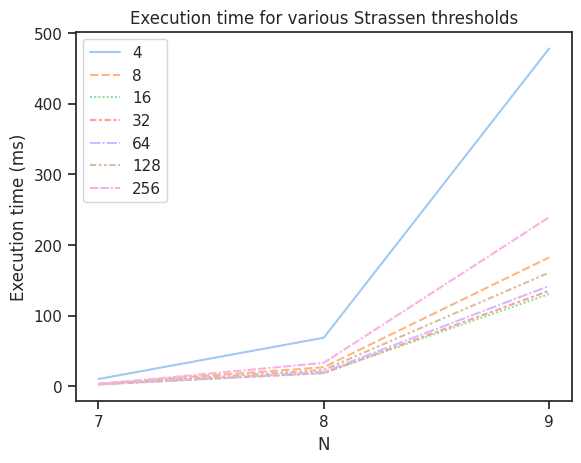
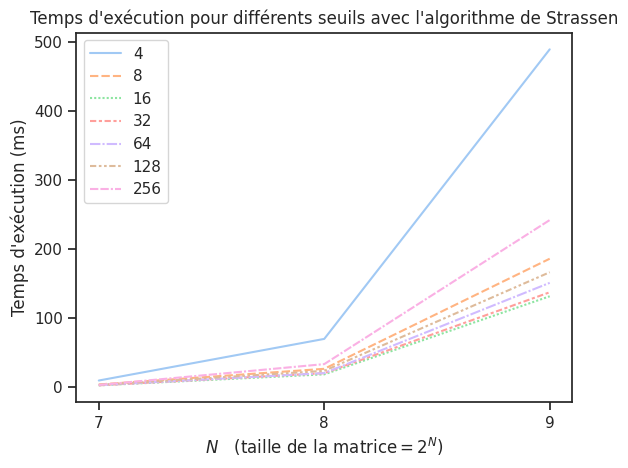
Rename plots to have labels in French

diff --git a/TP1/analyze.py b/TP1/analyze.py
@@ -51,7 +51,7 @@ def main():
 
         plt.figure()
         ax = sns.lineplot(data=df[-3:]) # Only show results for the three biggest matrices
-        ax.set(title='Execution time for various Strassen thresholds', xlabel='N', ylabel='Execution time (ms)')
+        ax.set(title='Temps d\'exécution pour différents seuils avec l\'algorithme de Strassen', xlabel=r'$N\quad(\mathrm{taille\ de\ la\ matrice} = 2^N$)', ylabel='Temps d\'exécution (ms)')
         ax.get_xaxis().set_major_locator(plt.MaxNLocator(integer=True))
         plt.savefig(ANALYSIS_OUTPUT_PATH / 'strassen_thresholds.png', bbox_inches='tight')
 
@@ -65,17 +65,17 @@ def main():
 
         with open(ANALYSIS_OUTPUT_PATH / 'execution_times.md', 'w') as file:
             file.write(df.to_markdown() + '\n')
-        
+
         df.to_csv(ANALYSIS_OUTPUT_PATH / 'execution_times.csv')
 
         plt.figure()
         ax = sns.lineplot(data=df)
-        ax.set(title='Execution time for each algorithm', xlabel='N', ylabel='Execution time (ms)')
+        ax.set(title='Temps d\'exécution pour chaque algorithme', xlabel=r'$N\quad(\mathrm{taille\ de\ la\ matrice} = 2^N$)', ylabel='Temps d\'exécution (ms)')
         ax.get_xaxis().set_major_locator(plt.MaxNLocator(integer=True))
         plt.savefig(ANALYSIS_OUTPUT_PATH / 'execution_times.png', bbox_inches='tight')
 
         return
-    
+
     # Algorithm complexity with power, ratio and constants tests
     if args.mode == 'complexity':
         execution_time_results_filename = ANALYSIS_OUTPUT_PATH / 'execution_times.csv'
@@ -83,7 +83,7 @@ def main():
             wide_df = pd.read_csv(ANALYSIS_OUTPUT_PATH / 'execution_times.csv', index_col=0)
         except FileNotFoundError:
             print(f'Execution time results could not be read (\'{execution_time_results_filename}\'). Please run the script with the \'measure\' mode and try again.')
-        
+
         # Convert dataframe from wide form to long form for plotting with seaborn's lmplot
         long_df = pd.melt(wide_df.reset_index(), id_vars=['N'], var_name='Algorithm', value_name='ExecutionTime')
         long_df['2^N'] = 2 ** long_df['N']
@@ -97,22 +97,17 @@ def main():
             slope, intercept, _, _, _ = stats.linregress(x=np.log2(long_df_filtered['2^N']), y=np.log2(long_df_filtered['ExecutionTime']))
             slope_intercepts[algorithm_name] = (slope, intercept)
 
-        # Plot log-log plot for power test
+        # Power test
         plt.figure()
-        ax = sns.lmplot(x='log2(2^N)', y='log2(ExecutionTime)', hue='Algorithm', data=long_df)
+        ax = sns.lmplot(x='log2(2^N)', y='log2(ExecutionTime)', hue='Algorithm', data=long_df) # Log-log plot
         legend_labels = plt.legend().get_texts()
         for i, algorithm_name in enumerate(ALGORITHMS):
             slope, intercept = slope_intercepts[algorithm_name]
             legend_labels[i].set_text(fr'$\log_2(y) = {slope:.2f}\log_2(x){"+" if intercept > 0 else ""}{intercept:.2f}$')
-        ax.set(title='Power test', xlabel=r'$\log_2(\mathrm{matrix\ size}) = \log_2(2^N) = N$', ylabel=r'$\log_2(\mathrm{execution\ time})$')
+        ax.set(title='Test de puissance', xlabel=r'$\log_2(\mathrm{taille\ de\ la\ matrice}) = \log_2(2^N) = N$', ylabel=r'$\log_2(\mathrm{temps\ d\'exécution})$')
         plt.savefig(ANALYSIS_OUTPUT_PATH / 'power_test.png', bbox_inches='tight')
-    
-    # TODO: Power, ratio and constant tests
 
-    # TODO: Other titles and axes on graphs using LaTeX notation
-    # TODO: Make plot size larger
-    # TODO: Translate plots in French
-
+        # TODO: Constants test
 
 def measure_execution_times(algorithms, trial_count=1, extra_args=[]):
     matrix_filenames = [x for x in DATA_PATH.iterdir() if x.is_file()]

diff --git a/TP1/analysis/strassen_thresholds.md b/TP1/analysis/strassen_thresholds.md
@@ -1,7 +1,9 @@
-|   N |          4 |          8 |          16 |          32 |          64 |         128 |         256 |
-|----:|-----------:|-----------:|------------:|------------:|------------:|------------:|------------:|
-|   5 |   0.219305 |   0.084198 |   0.0584027 |   0.0499267 |   0.0536716 |   0.0489452 |   0.0492081 |
-|   6 |   1.4382   |   0.562928 |   0.388277  |   0.378906  |   0.396721  |   0.403877  |   0.404018  |
-|   7 |  10.2854   |   3.8511   |   2.6844    |   2.66129   |   2.92965   |   3.15006   |   3.23267   |
-|   8 |  68.7328   |  27.0119   |  18.852     |  18.7878    |  20.4064    |  23.2429    |  33.2405    |
-|   9 | 477.913    | 182.415    | 130.575     | 135.11      | 141.995     | 160.922     | 239.229     |
+|   N |            4 |            8 |           16 |          32 |           64 |          128 |          256 |
+|----:|-------------:|-------------:|-------------:|------------:|-------------:|-------------:|-------------:|
+|   3 |   0.00902017 |   0.00128743 |   0.00126637 |   0.0012385 |   0.00129753 |   0.00127933 |   0.00128427 |
+|   4 |   0.0347384  |   0.016353   |   0.00693567 |   0.0066429 |   0.00678983 |   0.0069907  |   0.00677173 |
+|   5 |   0.226225   |   0.0851729  |   0.0585242  |   0.0503946 |   0.050219   |   0.0500328  |   0.0510413  |
+|   6 |   1.41257    |   0.589577   |   0.395574   |   0.382649  |   0.39222    |   0.397459   |   0.397557   |
+|   7 |   9.63782    |   3.96966    |   2.65211    |   2.67466   |   2.92829    |   3.2693     |   3.21573    |
+|   8 |  69.8671     |  26.5682     |  18.5439     |  20.2875    |  20.3879     |  23.6556     |  33.3837     |
+|   9 | 488.927      | 185.904      | 131.552      | 137.331     | 150.983      | 166.331      | 241.861      |

diff --git a/TP1/analysis/execution_times.md b/TP1/analysis/execution_times.md
@@ -1,9 +1,11 @@
-|   N |   Conventional |    Strassen |   StrassenThreshold |
-|----:|---------------:|------------:|--------------------:|
-|   5 |      0.0493264 |     4.76004 |            0.224361 |
-|   6 |      0.39252   |    32.7991  |            1.4548   |
-|   7 |      3.18446   |   240.988   |           10.1889   |
-|   8 |     33.1154    |  1602.5     |           70.9102   |
-|   9 |    291.429     | 11000.1     |          472.995    |
-|  10 |   4901.13      |   nan       |         3324.28     |
-|  11 |  94898.7       |   nan       |        23410.5      |
+|   N |   Conventional |     Strassen |   StrassenThreshold |
+|----:|---------------:|-------------:|--------------------:|
+|   3 |      0.0012167 |     0.1063   |           0.0090715 |
+|   4 |      0.0069032 |     0.697635 |           0.0367649 |
+|   5 |      0.0530111 |     4.62013  |           0.209763  |
+|   6 |      0.414151  |    32.2666   |           1.42877   |
+|   7 |      3.31166   |   224.954    |           9.73088   |
+|   8 |     33.3067    |  1551.74     |          66.6437    |
+|   9 |    313.228     | 10842        |         467.435     |
+|  10 |   3520.61      |   nan        |        3272.01      |
+|  11 |  92562.1       |   nan        |       22982.6       |
